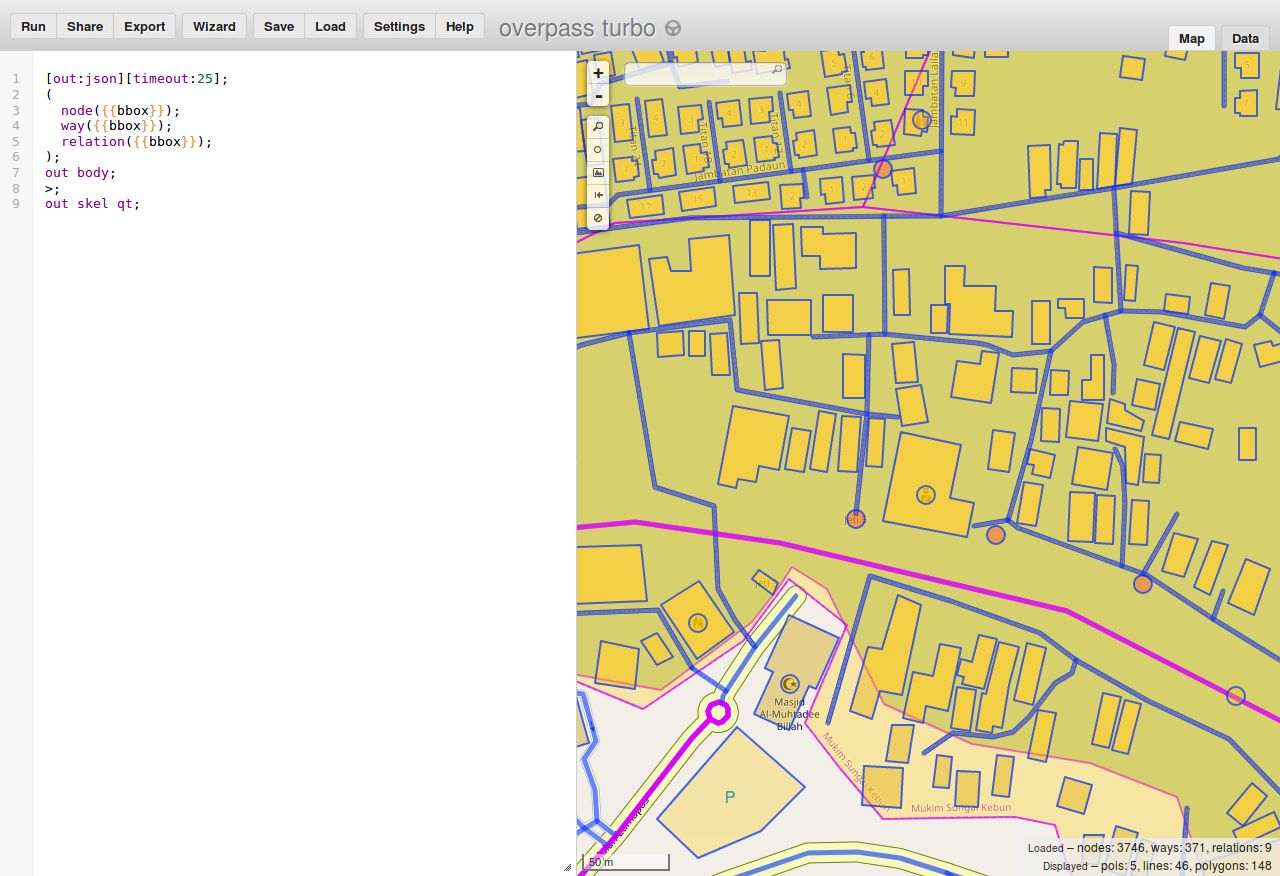
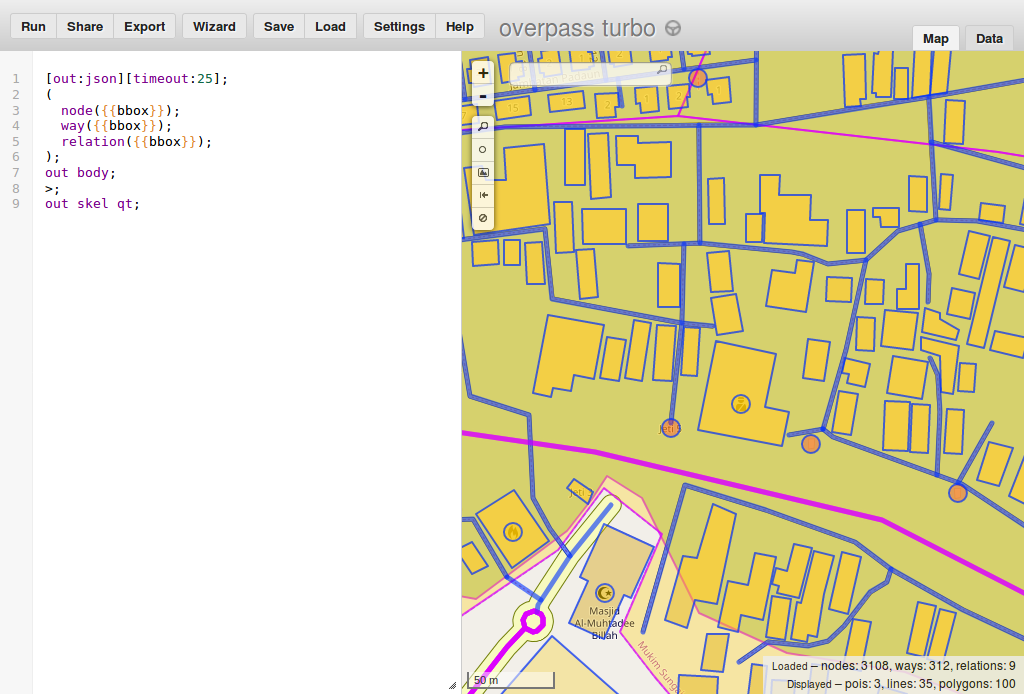
better image sizes

diff --git a/geographic_data_mining_and_visualisation_for_beginners/screenshot_generation.py b/geographic_data_mining_and_visualisation_for_beginners/screenshot_generation.py
@@ -35,11 +35,12 @@ driver.get('http://overpass-turbo.eu/s/zMi')
 time.sleep(5)
 driver.save_screenshot("hamm_playgrounds.png")
 """
-
+driver.set_window_size(1024, 400)
 driver.get('https://duckduckgo.com/?q=wetland+OSM+Wiki&ia=web')
 driver.save_screenshot('wetland_search_results.png')
 
 try:
+    driver.set_window_size(1024, 768)
     smart_overpass_capture('http://overpass-turbo.eu/s/zMi', "Hamm_-_playgrounds.png", driver)
     smart_overpass_capture('http://overpass-turbo.eu/s/zMQ', "Kampong_Ayer_-_everything.png", driver)
     smart_overpass_capture('http://overpass-turbo.eu/s/zNL', "Nepal_-_glacier.png", driver)
